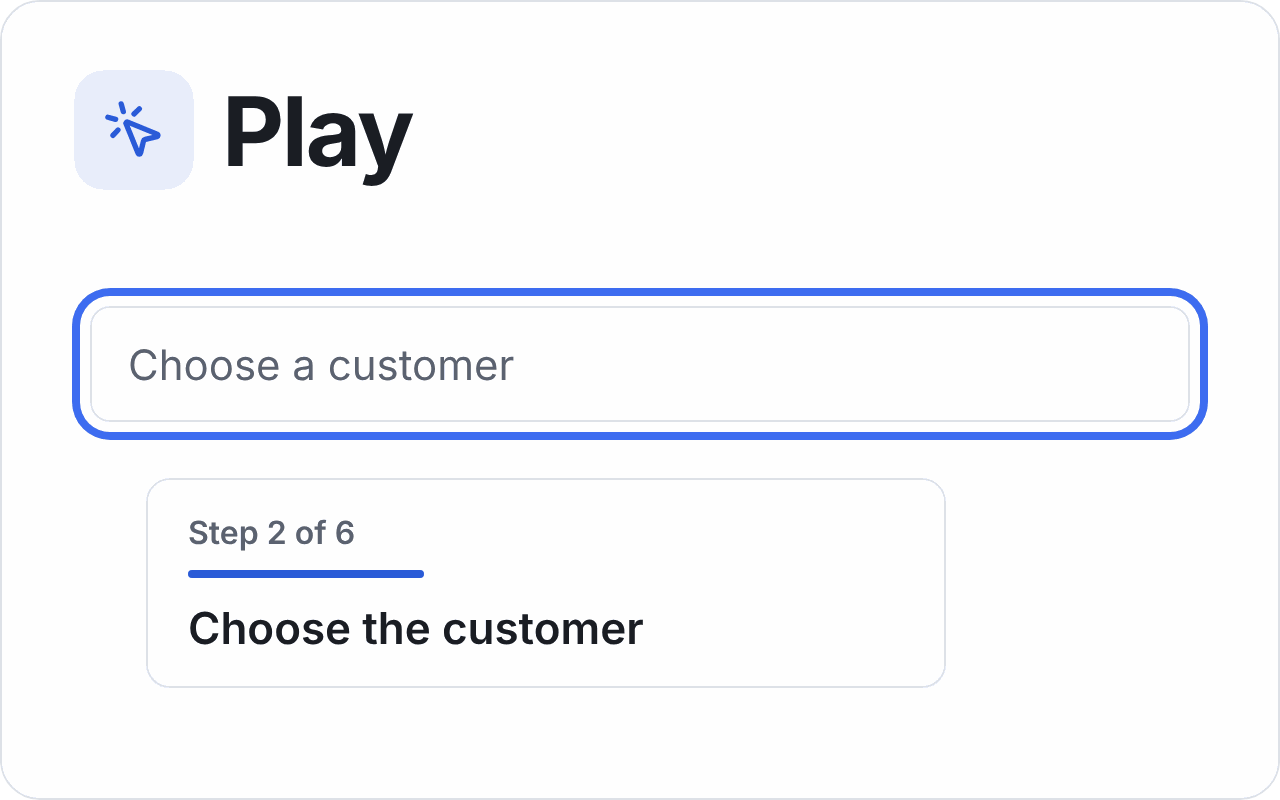
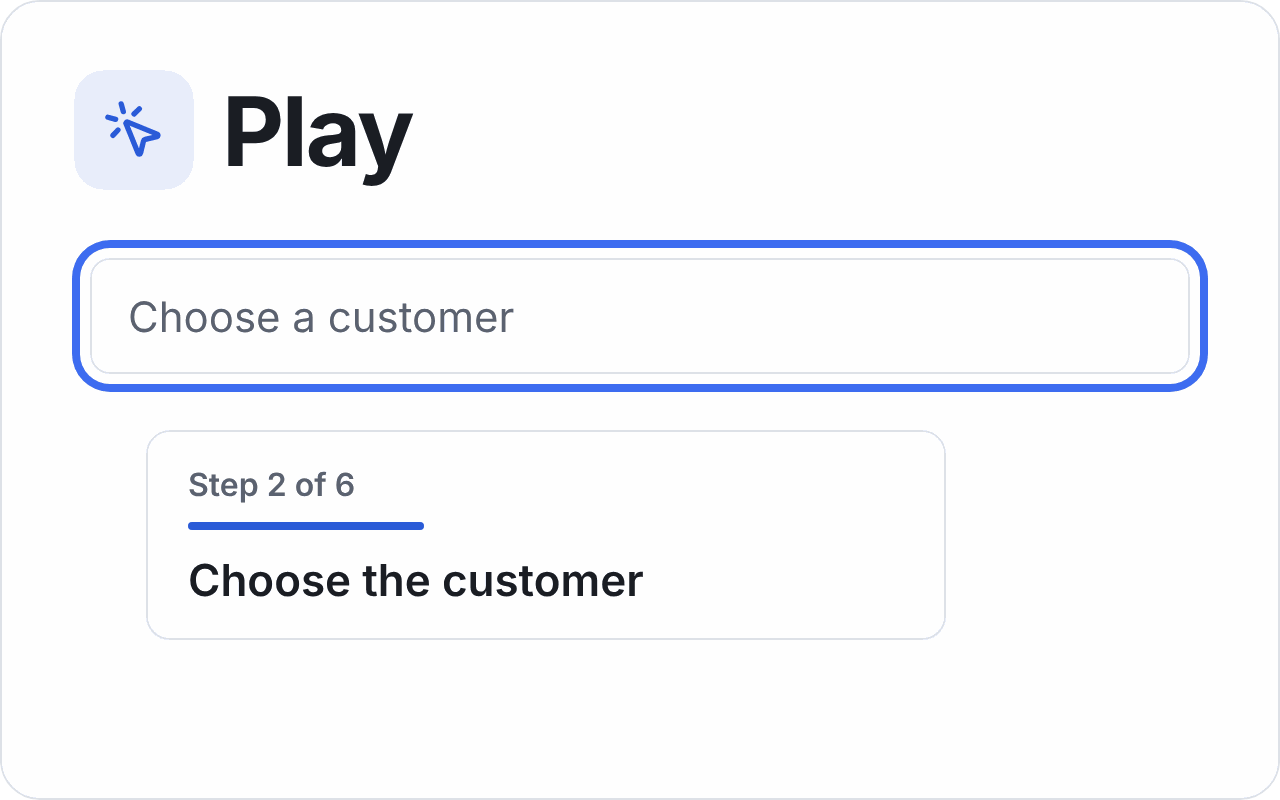
README graphics: second review round (#109; D230)
- Launcher and how-to shots back to full width; the how-to ends under its first step picture.
- The clip starts on the form (three steps), at 0.85x to stay under 300 KB.
- Posters centre their picture under the title.
- Xvfb screen tall enough for the how-to window.

Claude-Session: https://claude.ai/code/session_012ZwsG5AHnEyzqomm8LhoTZ

Changed region(s): [[0.0312, 0.2812, 0.9688, 0.5625], [0.125, 0.5938, 0.5, 0.8125]]

diff --git a/test/shots/readme.spec.ts b/test/shots/readme.spec.ts
@@ -23,7 +23,7 @@ const OUT = join(process.cwd(), 'artifacts', 'readme', 'raw');
 const PAGE = { width: 1040, height: 720 };
 const PANEL = { width: 400, height: 720 };
 /** The how-to preview is shot taller, so its first step's picture is whole. */
-const HOWTO_HEIGHT = 980;
+const HOWTO_HEIGHT = 1400;
 
 const test = base.extend<object, { site: { port: number; main: string; other: string } }>({
   // A fixed port, so the panel shows the same address in every shot.
@@ -231,7 +231,9 @@ test('README screenshots', async ({ context, ext, site, extensionId }) => {
   const [preview] = await Promise.all([context.waitForEvent('page'), panel.getByTestId('open-preview').click()]);
   await preview.waitForURL(/howto\.html/);
   await expect(preview.getByTestId('howto-preview')).toHaveAttribute('data-ready', 'yes', { timeout: 15_000 });
-  await fit(context, preview, PAGE.width, HOWTO_HEIGHT);
+  // Tall enough to end just under the first step picture, so the shot doesn't stop mid-image.
+  const imgBottom = await preview.locator('img[data-testid^="howto-img-"]').first().evaluate((e) => Math.ceil(e.getBoundingClientRect().bottom));
+  await fit(context, preview, PAGE.width, Math.min(imgBottom + 28, HOWTO_HEIGHT));
   await shot(preview, 'howto-page');
 
   writeFileSync(join(OUT, 'done.txt'), new Date().toISOString() + '\n');

diff --git a/scripts/readme-pack.py b/scripts/readme-pack.py
@@ -54,13 +54,13 @@ for n in STORE:
 if not art_only:
     for n in SHOTS:
         pack(n, OUT / f'{n}.png', dither=True)
-    # The clip: four steps of a guide playing, each held long enough to read.
-    frames = [Image.open(ART / f'clip-{i}.png').convert('RGB') for i in range(4)]
+    # The clip: three steps of a guide playing on the form, each held long enough to read.
+    frames = [Image.open(ART / f'clip-{i}.png').convert('RGB') for i in (1, 2, 3)]
     strip = Image.new('RGB', (frames[0].width, frames[0].height * len(frames)))
     for i, f in enumerate(frames):
         strip.paste(f, (0, i * f.height))
     pal = strip.quantize(255, method=Image.Quantize.MEDIANCUT, dither=Image.Dither.NONE)
     out = [f.quantize(palette=pal, dither=Image.Dither.FLOYDSTEINBERG) for f in frames]
     gif = OUT / 'clip-play.gif'
-    out[0].save(gif, save_all=True, append_images=out[1:], duration=[1800, 2200, 2200, 2600], loop=0, optimize=True, disposal=1)
+    out[0].save(gif, save_all=True, append_images=out[1:], duration=[2200, 2200, 2600], loop=0, optimize=True, disposal=1)
     report(gif)

diff --git a/README.md b/README.md
@@ -25,7 +25,7 @@ Waymark is a Chromium (Manifest V3) extension that records click-by-click walkth
 
 Screenshots of the made-up "Demo Books" app in the test fixtures, re-shot each release with `pnpm shots:readme`.
 
-![A guide playing on a made-up invoicing app, four steps: the spotlight moves from the New invoice button to the Customer field, then Item, then Amount, with a tooltip that counts the steps.](docs/assets/clip-play.gif)
+![A guide playing on a made-up invoicing app: the spotlight moves from the Customer field to Item, then Amount, with a tooltip that counts the steps.](docs/assets/clip-play.gif)
 
 **Record.** While you record, an outline shows what a click will record, and the panel lists each step.
 
@@ -41,11 +41,11 @@ Screenshots of the made-up "Demo Books" app in the test fixtures, re-shot each r
 
 **Find.** The `?` button on the page lists the guides for that page, with a search once there are many.
 
-<p align="center"><img src="docs/assets/shot-launcher.png" alt="The ? launcher open on the dashboard, with the search box holding &quot;pay&quot; and two matching guides." width="72%"></p>
+<p align="center"><img src="docs/assets/shot-launcher.png" alt="The ? launcher open on the dashboard, with the search box holding &quot;pay&quot; and two matching guides." width="100%"></p>
 
 **Print.** Export a printable how-to. With screenshots turned on while recording, steps get a picture with their element outlined; you can add a missing one from the editor.
 
-<p align="center"><img src="docs/assets/shot-howto.png" alt="The printable how-to preview: step 1 has no picture yet, step 2's picture has the Customer field outlined and numbered." width="72%"></p>
+<p align="center"><img src="docs/assets/shot-howto.png" alt="The printable how-to preview: step 1 has no picture yet, step 2's picture has the Customer field outlined and numbered." width="100%"></p>
 
 ## Install
 

diff --git a/docs/BRAND.md b/docs/BRAND.md
@@ -43,7 +43,7 @@ All in `docs/assets/`, each under 300 KB (`test/unit/readme-assets.test.ts` chec
 | `hero-light.png`, `hero-dark.png` | README banner, 1280 × 400 at 2× |
 | `poster-{record,play,share,private}-{light,dark}.png` | Feature cards, 640 × 400 at 2×: a title and a picture; the README's bullets carry the words |
 | `shot-record.png`, `shot-play.png`, `shot-editor.png`, `shot-launcher.png`, `shot-howto.png` | Screenshots in a drawn browser window |
-| `clip-play.gif` | A guide playing, four steps, 1× |
+| `clip-play.gif` | A guide playing, three steps on the form, 0.85× |
 | `social-preview.png` | GitHub social preview, 1280 × 640 (upload it in the repository's Settings → General → Social preview) |
 | `store/store-small-440x280.png`, `store/store-marquee-1400x560.png` | Chrome Web Store tiles, for a later listing (D58) |
 
